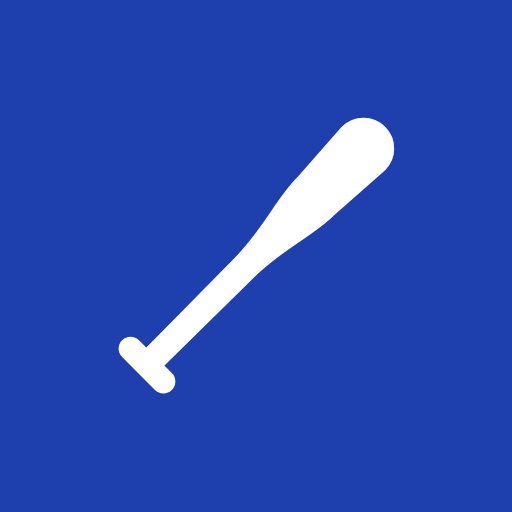
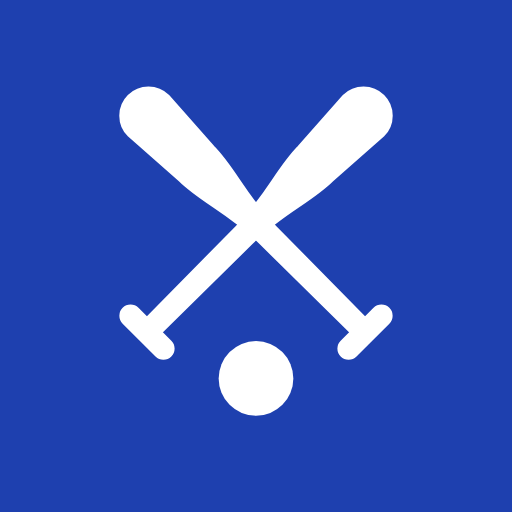
A goat for GOAT Sports; crossed bats and a ball for baseball
Claude-Session: https://claude.ai/code/session_017MXmjwPd7B8Z2bBW2CGXGL

Changed region(s): [[0.2188, 0.1562, 0.7812, 0.7812], [0.4062, 0.6562, 0.5938, 0.8125]]

diff --git a/home/home.js b/home/home.js
@@ -50,7 +50,7 @@
     volleyball: '<circle cx="12" cy="12" r="10"/><path d="M11.1 7.1a16.55 16.55 0 0 1 10.9 4"/><path d="M12 12a12.6 12.6 0 0 1-8.7 5"/><path d="M16.8 13.6a16.55 16.55 0 0 1-9 7.5"/><path d="M20.7 17a12.8 12.8 0 0 0-8.7-5 13.3 13.3 0 0 1 0-10"/><path d="M6.3 3.8a16.55 16.55 0 0 0 1.9 11.5"/>',
     football: '<path d="M3.6 20.4c-1.2-5.600 1.100-11.600 6.200-14.700 3.100-1.900 7.100-2.500 10.600-2.100.400 3.500-.200 7.500-2.100 10.600-3.100 5.100-9.100 7.400-14.700 6.200z"/><path d="M9.200 14.800l5.600-5.600"/><path d="M10.300 11.300l2.400 2.400"/><path d="M12.300 9.300l2.400 2.400"/>',
     basketball: '<circle cx="12" cy="12" r="9"/><path d="M3 12h18"/><path d="M12 3v18"/><path d="M5.6 5.6c2.6 1.9 2.6 10.9 0 12.8"/><path d="M18.4 5.6c-2.6 1.9-2.6 10.9 0 12.8"/>',
-    baseball: '<path d="M5.2 19.3l6.3-6.2c2-2 4-2.8 5.4-4.2l3.4-3a1.5 1.5 0 0 0-2.2-2.2l-3 3.4c-1.4 1.4-2.2 3.4-4.2 5.4l-6.2 6.3z" fill="currentColor" stroke-width="1"/><path d="M3.6 18.2l2.2 2.2"/>'
+    baseball: '<g style="fill:var(--c);stroke:var(--c)" stroke-linejoin="round" stroke-linecap="round"><path d="M5.2 19.3l6.3-6.2c2-2 4-2.8 5.4-4.2l3.4-3a1.5 1.5 0 0 0-2.2-2.200l-3 3.400c-1.4 1.4-2.2 3.4-4.2 5.400l-6.2 6.300z" stroke-width=".8" transform="translate(0 -2.2)"/><path d="M5.2 19.3l6.3-6.2c2-2 4-2.8 5.4-4.2l3.4-3a1.5 1.5 0 0 0-2.2-2.200l-3 3.400c-1.4 1.4-2.2 3.4-4.2 5.400l-6.2 6.300z" stroke-width=".8" transform="translate(24 -2.2) scale(-1 1)"/><path d="M3.6 16l2.2 2.200M20.4 16l-2.2 2.2" stroke-width="1.5"/><circle cx="12" cy="20.2" r="2.5" stroke="none"/></g>'
   };
   // what each sport's door says, and the pages behind it
   var DOORS = {

diff --git a/baseball/site/index.html b/baseball/site/index.html
@@ -21,7 +21,7 @@
 <nav class="leagues wrap" id="leagues" aria-label="Leagues"></nav>
 <header class="mast">
   <div class="wrap mast-row">
-    <a class="brand" href="#/"><svg viewBox="0 0 24 24" aria-hidden="true"><path d="M5.2 19.3l6.3-6.2c2-2 4-2.8 5.4-4.2l3.4-3a1.5 1.5 0 0 0-2.2-2.2l-3 3.4c-1.4 1.4-2.2 3.4-4.2 5.4l-6.2 6.3z" fill="currentColor" stroke-width="1"/><path d="M3.6 18.2l2.2 2.2"/></svg><span id="brand">GOAT Baseball</span></a>
+    <a class="brand" href="#/"><svg viewBox="0 0 24 24" aria-hidden="true"><g style="fill:var(--teal);stroke:var(--teal)" stroke-linejoin="round" stroke-linecap="round"><path d="M5.2 19.3l6.3-6.2c2-2 4-2.8 5.4-4.2l3.4-3a1.5 1.5 0 0 0-2.2-2.200l-3 3.400c-1.4 1.4-2.2 3.4-4.2 5.400l-6.2 6.300z" stroke-width=".8" transform="translate(0 -2.2)"/><path d="M5.2 19.3l6.3-6.2c2-2 4-2.8 5.4-4.2l3.4-3a1.5 1.5 0 0 0-2.2-2.200l-3 3.400c-1.4 1.4-2.2 3.4-4.2 5.400l-6.2 6.300z" stroke-width=".8" transform="translate(24 -2.2) scale(-1 1)"/><path d="M3.6 16l2.2 2.200M20.4 16l-2.2 2.2" stroke-width="1.5"/><circle cx="12" cy="20.2" r="2.5" stroke="none"/></g></svg><span id="brand">GOAT Baseball</span></a>
     <nav class="pages" aria-label="Pages">
       <a href="#/" data-page="games" data-w="nav.games">Games</a>
       <a href="#/rankings" data-page="rankings" data-w="nav.rankings">Standings</a>

diff --git a/home/index.html b/home/index.html
@@ -22,7 +22,7 @@
 <nav class="sports" aria-label="Sports"><div class="wrap sports-row"><a class="sports-home" href="./" aria-current="page">GOAT Sports</a><a href="volleyball/">Volleyball</a><a href="hockey/">Hockey</a><a href="football/">Football</a><a href="basketball/">Basketball</a><a href="baseball/">Baseball</a></div></nav>
 <header class="mast">
   <div class="wrap mast-row">
-    <a class="brand" href="./"><svg viewBox="0 0 24 24" aria-hidden="true"><path d="M12 2.8l2.8 5.8 6.4.9-4.6 4.5 1.1 6.3L12 17.3l-5.7 3 1.1-6.3L2.8 9.5l6.4-.9z"/></svg><span>GOAT Sports</span></a>
+    <a class="brand" href="./"><svg viewBox="0 0 24 24" aria-hidden="true"><g style="fill:var(--ball);stroke:var(--ball)" stroke-width=".6" stroke-linejoin="round"><path d="M12.6 7.2L20.4 12.6Q21 14.6 19.2 15.4L16.4 15.8 15.6 20.4 13.6 16.4 9.4 19.400Q7 14 8.8 9.400Z"/><path d="M13 7.6C11 2.8 5.2 2.4 2.8 7.8 2.2 10.2 3.4 12 5.2 12.4 4.6 10.6 5.2 8.2 7.4 7.6 9 7.2 10 8.2 10.2 9.600Z"/><path d="M8.6 11L5.6 14.6 9.4 13.800Z"/></g><circle cx="15" cy="11.2" r=".9" style="fill:var(--sheet);stroke:none"/></svg><span>GOAT Sports</span></a>
     <span class="tag">Volleyball, hockey, football, basketball and baseball</span>
   </div>
 </header>
